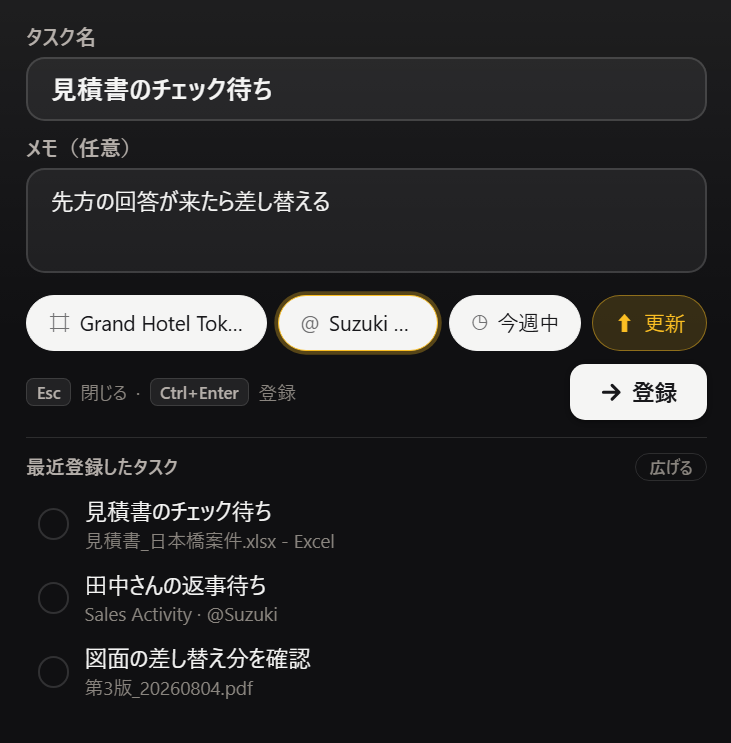
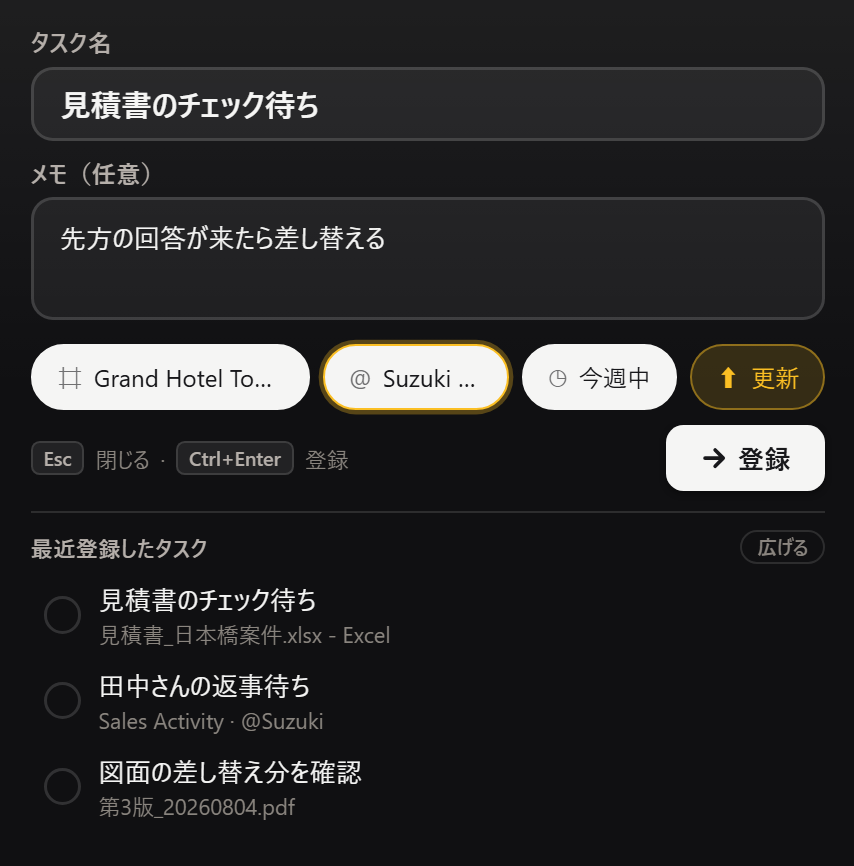
fix: 文字の倍率を 1.25 に下げ、広げた一覧を画面の上下いっぱいにする
1.5 倍では大きすぎた。広げた一覧で倍率ごとに見える件数を並べて比べ、
1.25 倍に決めた（この PC で、メモあり・なしが半々なら 12 件見える）。

広げた一覧は高さの上限（660px × 倍率）をやめ、作業領域の上下いっぱいまで
伸ばす。一度に見えるタスクの数を多くしたいため。

説明書の写真 21 枚も 1.25 倍で撮り直した。

diff --git a/app/layout.py b/app/layout.py
@@ -9,13 +9,13 @@ from PyQt6.QtWidgets import QApplication, QMainWindow
 # 画面の文字の大きさ。
 #
 # CSS は等倍（px の直書き）のままにして、表示するときに丸ごと引き伸ばす。
-# ui.css の font-size は 40 か所あり、そこだけ 1.5 倍にすると、高さを固定してある
+# ui.css の font-size は 40 か所あり、そこだけ大きくすると、高さを固定してある
 # ところ（入力欄 34px・チップ 30px・候補パネル 328px・一覧 124px）との辻褄が合わず
 # 必ずどこかが溢れる。倍率でまとめて動かせば、文字も余白も枠もチェックの升目も
 # 同じ比率で大きくなるので、組み方を一切触らずに済む。
 #
 # 窓の寸法もこの率で膨らませる。ここを変えれば画面と窓が一緒に付いてくる。
-ZOOM = 1.5
+ZOOM = 1.25
 
 # 素の寸法（ZOOM が 1.0 のときの大きさ）。
 # 396 = 従来の 359 + 登録先の行 30px + 余白 7px。
@@ -25,9 +25,6 @@ BASE_W, BASE_H = 390, 396
 # 隅に小さく出ると、初めての人が見落とすため。
 BASE_SETUP_W, BASE_SETUP_H = 430, 486
 
-# 一覧を広げたときの高さ。画面が狭ければ作業領域に合わせて縮める。
-BASE_WIDE_H_MAX = 660
-
 
 def scaled(value: int) -> int:
     """素の寸法を、いまの文字の大きさに合わせた画素数にする。"""
@@ -36,7 +33,6 @@ def scaled(value: int) -> int:
 
 WIN_W,   WIN_H   = scaled(BASE_W), scaled(BASE_H)
 SETUP_W, SETUP_H = scaled(BASE_SETUP_W), scaled(BASE_SETUP_H)
-WIDE_H_MAX       = scaled(BASE_WIDE_H_MAX)
 
 # 画面の隅からの距離。窓の外の話なので、文字の大きさには連れない。
 MARGIN = 12
@@ -62,11 +58,15 @@ def work_area_logical() -> tuple[int, int, int, int]:
 
 
 def view_size(wide: bool) -> tuple[int, int]:
-    """入力画面のときと、一覧を広げたときの大きさ。"""
+    """入力画面のときと、一覧を広げたときの大きさ。
+
+    広げたときは作業領域の上下いっぱいまで伸ばす。一度に見えるタスクの数を
+    できるだけ多くしたいので、上限は設けない。
+    """
     if not wide:
         return WIN_W, WIN_H
     _wl, wt, _wr, wb = work_area_logical()
-    return WIN_W, min(WIDE_H_MAX, (wb - wt) - MARGIN * 2)
+    return WIN_W, (wb - wt) - MARGIN * 2
 
 
 def position_window(win: QMainWindow, w: int, h: int, center: bool = False) -> None:
